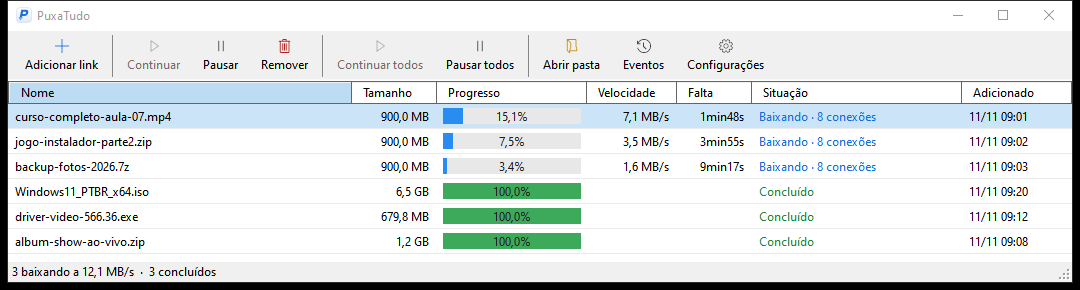
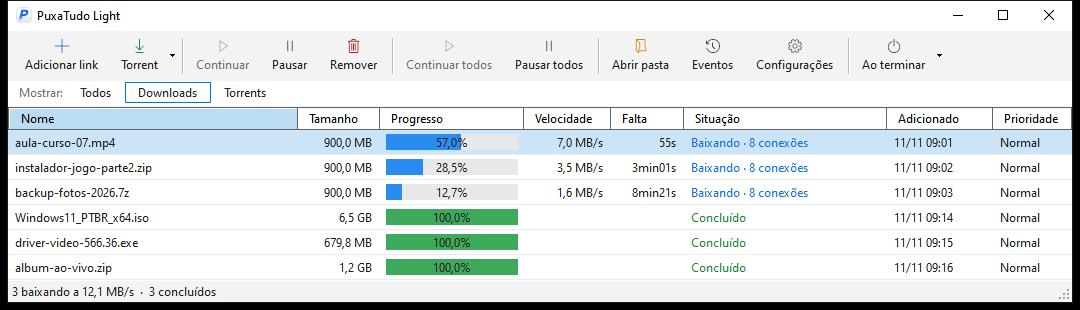
Captura nova da janela do PuxaTudo Light em português

diff --git a/README.md b/README.md
@@ -18,7 +18,7 @@
 ![Navegadores](https://img.shields.io/badge/navegadores-Chrome%20%7C%20Edge%20%7C%20Opera%20%7C%20Firefox-555)
 ![Idiomas](https://img.shields.io/badge/idiomas-portugu%C3%AAs%20%7C%20ingl%C3%AAs-2EA043)
 
-<img src="docs/img/janela.png" alt="Janela do PuxaTudo com três downloads em andamento e três concluídos" width="900">
+<img src="docs/img/janela.png" alt="Janela do PuxaTudo Light com três downloads em andamento e três concluídos" width="900">
 
 </div>
 
